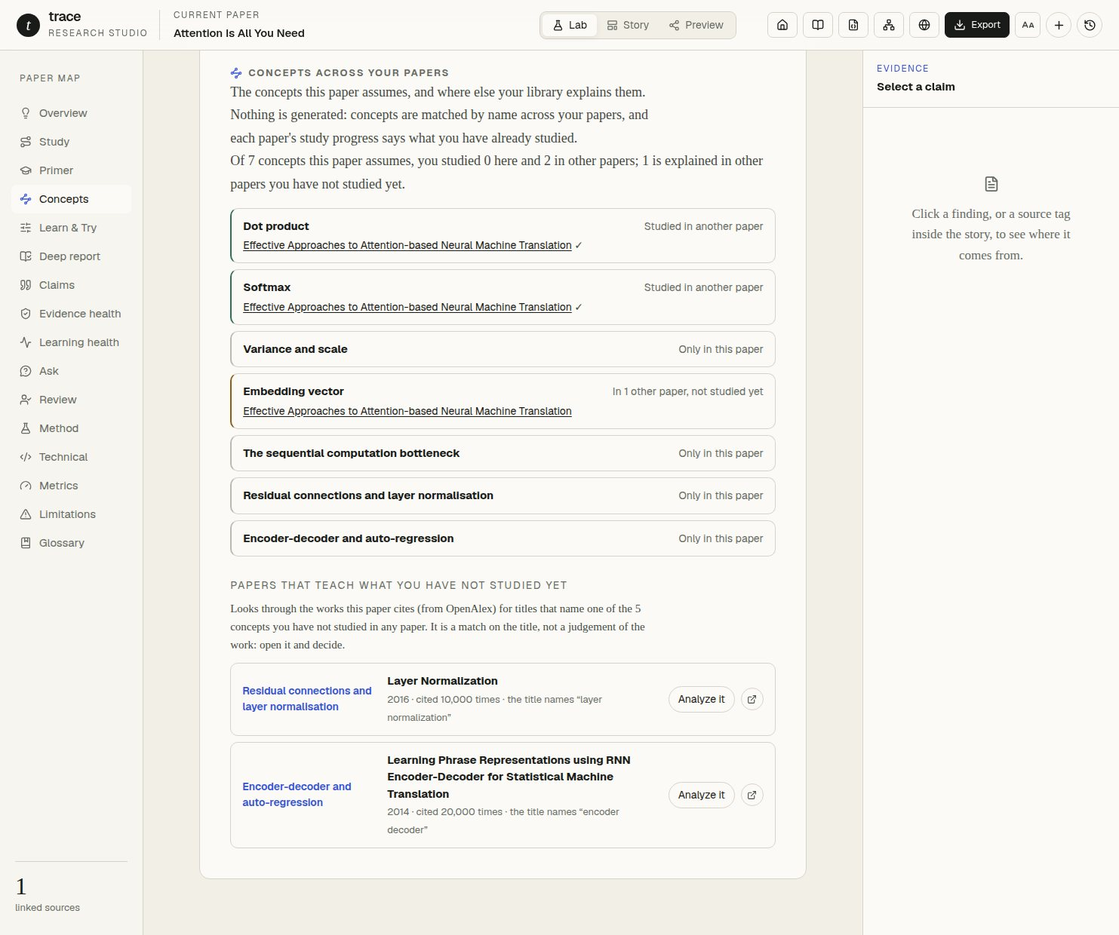
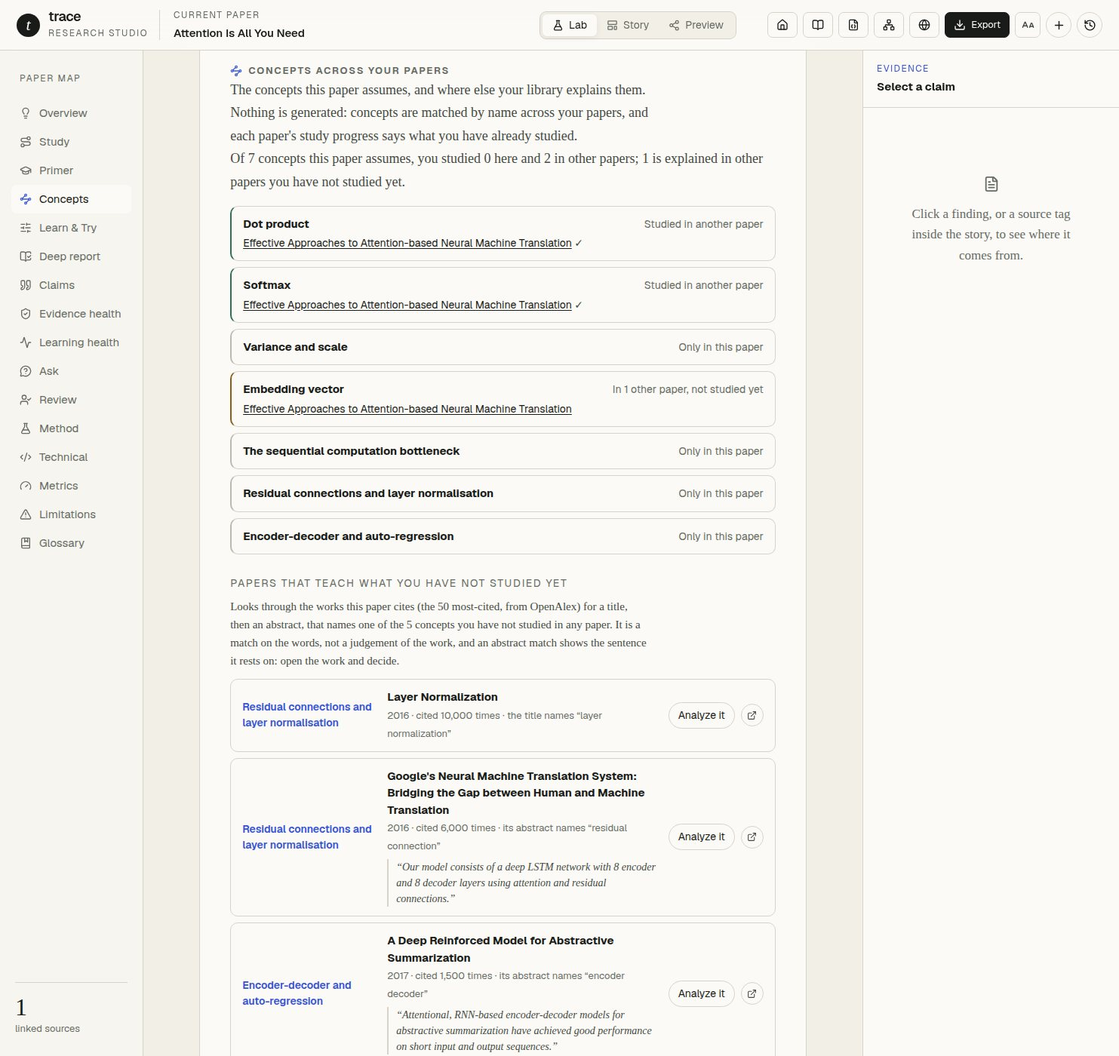
feat: suggest cited works whose abstract names a concept, with the sentence
Concept suggestions only looked at titles, and titles rarely name a concept:
none of the references OpenAlex lists for the attention paper does, while
their abstracts name three (residual connections, and encoder-decoder
models twice).

- The citation graph can bring the references' abstracts (OpenAlex's
  inverted index, rebuilt by the existing openAlexAbstract, which now
  ignores absurd or malformed positions). Only when asked: the graph panel
  does not need them. POST /api/citations takes `abstracts`.
- suggestReferences matches the title first, then the abstract, both on
  whole phrases as before; up to three works per concept, title matches
  first, most-cited first within each. An abstract match carries the
  sentence it rests on, verbatim: OpenAlex occasionally attaches an
  abstract to the wrong work, and the sentence lets the reader see it.
- The Lab says "its abstract names …" and quotes the sentence; the bridge's
  `concepts --suggest` and `--references` (which now accepts `abstract`)
  report `where` and `excerpt`. SKILL.md and README explain it; the
  screenshot shows both kinds.

Also fixes two races the full browser suite hit under load:
- The version-history reason was read when the save timer fired, so a
  pending save of the previous state could take a change's reason and the
  change was recorded as "Before edits". The reason is now bound to the
  project when the save is scheduled, and carried forward if that save is
  superseded before it runs.
[…]

diff --git a/src/lib/concept-links.test.ts b/src/lib/concept-links.test.ts
@@ -114,6 +114,37 @@ describe("concepts across the library", () => {
     expect(suggestReferences(conceptLinks(english, [english], new Map()), withSoftmax).some((item) => item.conceptId === "softmax")).toBe(true);
   });
 
+  it("falls back to abstracts, after titles, and shows the sentence each match rests on", () => {
+    const references = [
+      { title: "Layer Normalization", year: 2016, citationCount: 10_000 },
+      {
+        title: "Google's Neural Machine Translation System",
+        year: 2016,
+        citationCount: 5_000,
+        abstract: "Neural Machine Translation is an end-to-end approach. Our model consists of a deep LSTM network with 8 encoder and 8 decoder layers using attention and residual connections. It is fast.",
+      },
+      { title: "A Deep Reinforced Model for Abstractive Summarization", year: 2017, citationCount: 900, abstract: "Attentional, RNN-based encoder-decoder models for abstractive summarization have achieved good performance on short input and output sequences." },
+      // "layer" ve "normal" tek başına kavram değil: bütün ifade geçmeli.
+      { title: "Exploring the Limits", year: 2016, citationCount: 800, abstract: "Every layer is normal here. We explore limits." },
+      { title: "Cited but without an abstract", year: 2015, citationCount: 700 },
+    ];
+    const suggestions = suggestReferences(conceptLinks(english, [english], new Map()), references);
+    expect(suggestions.map((item) => [item.conceptId, item.where, item.reference.title])).toEqual([
+      ["residual-layernorm", "title", "Layer Normalization"],
+      ["residual-layernorm", "abstract", "Google's Neural Machine Translation System"],
+      ["encoder-decoder", "abstract", "A Deep Reinforced Model for Abstractive Summarization"],
+    ]);
+    // Cümle özetten olduğu gibi alınıyor; başlık eşleşmesinin cümlesi yok.
+    expect(suggestions[1]).toMatchObject({ phrase: "residual connection", excerpt: "Our model consists of a deep LSTM network with 8 encoder and 8 decoder layers using attention and residual connections." });
+    expect(suggestions[0].excerpt).toBeUndefined();
+    expect(suggestions[2].excerpt).toBe(references[2].abstract);
+
+    // Bir kavram için en çok üç çalışma, başlıkta ananlar önce.
+    const many = Array.from({ length: 5 }, (_, index) => ({ title: `Work ${index}`, citationCount: index, abstract: `We use softmax in part ${index}.` }));
+    const softmax = suggestReferences(conceptLinks(english, [english], new Map()), [{ title: "On the Softmax Bottleneck", citationCount: 1 }, ...many]).filter((item) => item.conceptId === "softmax");
+    expect(softmax.map((item) => item.reference.title)).toEqual(["On the Softmax Bottleneck", "Work 4", "Work 3"]);
+  });
+
   it("recognises a suggested work that is already in the library, by DOI or by title", () => {
     const base = secondPaper();
     const second = { ...base, evidence: { ...base.evidence, paper: { ...base.evidence.paper, title: "Layer Normalisation", doi: "https://doi.org/10.48550/arXiv.1607.06450" } } };
@@ -162,15 +193,22 @@ describe("the concepts bridge for agents", () => {
     const third = { ...english, id: "third-paper", evidence: { ...english.evidence, paper: { ...english.evidence.paper, title: "Embedding Vectors, Explained" } } };
     writeFileSync(join(workspace, "data", "library", "third-paper.trace.json"), JSON.stringify(third));
     const list = join(workspace, "references.json");
-    writeFileSync(list, JSON.stringify(["Layer Normalization", { title: "Embedding vectors, explained", year: "2019" }, { title: "Deep Residual Learning for Image Recognition", year: 2016 }]));
+    writeFileSync(list, JSON.stringify([
+      "Layer Normalization",
+      { title: "Embedding vectors, explained", year: "2019" },
+      { title: "Deep Residual Learning for Image Recognition", year: 2016 },
+      { title: "A Deep Reinforced Model for Abstractive Summarization", year: 2017, abstract: "Attentional, RNN-based encoder-decoder models for abstractive summarization have achieved good performance. We go further." },
+    ]));
     const run = bridge("concepts", "--project", join(workspace, "paper.trace.json"), "--references", list);
     expect(run.status).toBe(0);
-    const suggestions = run.json.suggestions as { ok: boolean; source: string; references: number; items: Array<{ conceptId: string; title: string; year: number | null; inLibrary: { projectId: string } | null }> };
-    expect(suggestions).toMatchObject({ ok: true, source: "file", references: 3 });
-    expect(suggestions.items.map((item) => [item.conceptId, item.title, item.inLibrary?.projectId ?? null])).toEqual([
-      ["embedding", "Embedding vectors, explained", "third-paper"],
-      ["residual-layernorm", "Layer Normalization", null],
+    const suggestions = run.json.suggestions as { ok: boolean; source: string; references: number; items: Array<{ conceptId: string; title: string; year: number | null; where: string; excerpt?: string; inLibrary: { projectId: string } | null }> };
+    expect(suggestions).toMatchObject({ ok: true, source: "file", references: 4 });
+    expect(suggestions.items.map((item) => [item.conceptId, item.where, item.title, item.inLibrary?.projectId ?? null])).toEqual([
+      ["embedding", "title", "Embedding vectors, explained", "third-paper"],
+      ["residual-layernorm", "title", "Layer Normalization", null],
+      ["encoder-decoder", "abstract", "A Deep Reinforced Model for Abstractive Summarization", null],
     ]);
+    expect(suggestions.items[2].excerpt).toBe("Attentional, RNN-based encoder-decoder models for abstractive summarization have achieved good performance.");
     expect(suggestions.items[0].year).toBe(2019);
 
     // Satır başına bir başlık da olur; softmax başka bir makalede çalışıldığı için önerilmiyor.

diff --git a/src/lib/concept-links.ts b/src/lib/concept-links.ts
@@ -185,8 +185,17 @@ export function sharedConcepts(library: readonly ResearchProject[], study: Reado
   return shared.sort((left, right) => right.papers - left.papers || left.term.localeCompare(right.term));
 }
 
-export type ReferenceWork = { title: string; year?: number; identifier?: string; pdfAvailable?: boolean; url?: string; citationCount?: number };
-export type ReferenceSuggestion = { conceptId: string; term: string; phrase: string; reference: ReferenceWork };
+export type ReferenceWork = { title: string; year?: number; identifier?: string; pdfAvailable?: boolean; url?: string; citationCount?: number; abstract?: string };
+export type ReferenceSuggestion = {
+  conceptId: string;
+  term: string;
+  phrase: string;
+  /** Kavramı anan yer: başlık, yoksa (OpenAlex'in verdiği) özet. */
+  where: "title" | "abstract";
+  /** Özetten anan cümle, olduğu gibi: okuyucu eşleşmenin neye dayandığını görüyor. */
+  excerpt?: string;
+  reference: ReferenceWork;
+};
 
 /**
  * Önerilen çalışma kütüphanede zaten var mı: DOI ya da katlanmış başlık aynı.
@@ -221,25 +230,57 @@ export function conceptPhrases(term: string) {
   ];
 }
 
+/** Özetin cümleleri; bir eşleşmenin kanıtı olarak gösterilen cümle en çok bu kadar uzun. */
+const MAX_EXCERPT = 280;
+
+/** Özetten ifadeyi bütün kelimelerle anan ilk cümle, olduğu gibi. */
+function sentenceNaming(abstract: string, phrase: string) {
+  const sentences = abstract.match(/[^.!?]+(?:[.!?]+(?=\s|$)|$)/g) ?? [abstract];
+  const sentence = sentences.map((item) => item.trim()).find((item) => ` ${normalizePhrase(item)} `.includes(` ${phrase} `));
+  if (!sentence) return undefined;
+  return sentence.length > MAX_EXCERPT ? `${sentence.slice(0, MAX_EXCERPT - 1).trimEnd()}…` : sentence;
+}
+
+/** Kavram başına en çok bu kadar öneri; başlıkta ananlar önce. */
+const SUGGESTIONS_PER_CONCEPT = 3;
+
 /**
  * Henüz çalışılmamış kavramlar için makalenin kaynaklarından öneri: başlığı
- * kavramın bir parçasını bütün kelimelerle anan çalışma. Kavram başına en çok
- * atıf alan iki çalışma.
+ * kavramın bir parçasını bütün kelimelerle anan çalışmalar önce, sonra
+ * özeti anan çalışmalar, her grupta en çok atıf alan önce. Özet eşleşmesi,
+ * özetteki cümleyle birlikte veriliyor; OpenAlex'in özetleri kimi zaman başka
+ * bir çalışmaya ait olabiliyor ve okuyucu bunu cümleden görebiliyor.
  */
 export function suggestReferences(links: readonly ConceptLink[], references: readonly ReferenceWork[]): ReferenceSuggestion[] {
-  const titles = references.map((reference) => ({ reference, title: ` ${normalizePhrase(reference.title)} ` }));
+  const works = references.map((reference) => ({
+    reference,
+    title: ` ${normalizePhrase(reference.title)} `,
+    abstract: reference.abstract ? ` ${normalizePhrase(reference.abstract)} ` : undefined,
+  }));
+  const byCitations = (left: ReferenceSuggestion, right: ReferenceSuggestion) => (right.reference.citationCount ?? 0) - (left.reference.citationCount ?? 0);
   const suggestions: ReferenceSuggestion[] = [];
   for (const link of links) {
     if (link.here?.studied || link.studiedIn) continue;
-    const matches: ReferenceSuggestion[] = [];
+    const inTitle: ReferenceSuggestion[] = [];
+    const inAbstract: ReferenceSuggestion[] = [];
+    const taken = new Set<ReferenceWork>();
     for (const phrase of conceptPhrases(link.term)) {
-      for (const { reference, title } of titles) {
-        if (title.includes(` ${phrase} `) && !matches.some((item) => item.reference.title === reference.title)) {
-          matches.push({ conceptId: link.conceptId, term: link.term, phrase, reference });
-        }
+      for (const { reference, title } of works) {
+        if (taken.has(reference) || !title.includes(` ${phrase} `)) continue;
+        taken.add(reference);
+        inTitle.push({ conceptId: link.conceptId, term: link.term, phrase, where: "title", reference });
       }
     }
-    suggestions.push(...matches.sort((left, right) => (right.reference.citationCount ?? 0) - (left.reference.citationCount ?? 0)).slice(0, 2));
+    for (const phrase of conceptPhrases(link.term)) {
+      for (const { reference, abstract } of works) {
+        if (taken.has(reference) || !abstract?.includes(` ${phrase} `)) continue;
+        const excerpt = sentenceNaming(reference.abstract!, phrase);
+        if (!excerpt) continue;
+        taken.add(reference);
+        inAbstract.push({ conceptId: link.conceptId, term: link.term, phrase, where: "abstract", excerpt, reference });
+      }
+    }
+    suggestions.push(...[...inTitle.sort(byCitations), ...inAbstract.sort(byCitations)].slice(0, SUGGESTIONS_PER_CONCEPT));
   }
   return suggestions;
 }

diff --git a/e2e/studio.spec.ts b/e2e/studio.spec.ts
@@ -1201,6 +1201,8 @@ test.describe("colour themes", () => {
         await page.goto(url);
         await expect(page.locator(".boot-screen")).toHaveCount(0);
         if (section) await page.locator(".lab-nav button", { hasText: section }).first().click();
+        // Kütüphane listesi sunucudan geliyor; yüklü bir makinede 400 ms yetmiyordu ve sayfanın yalnızca başlığı ölçülüyordu.
+        if (url.includes("library=1")) await expect(page.locator(".library-card").first()).toBeVisible();
         // Geçişler bitsin: renkler yarı yoldayken ölçülmesin.
         await page.waitForTimeout(400);
         const { checked, failures } = await unreadableTexts(page);
@@ -1773,7 +1775,7 @@ test.describe("concepts across the library", () => {
     const progress = completeStep(undefined, "concept:softmax", "concept:variance", new Date().toISOString());
     expect((await request.put(`/api/library/study?id=${second.id}`, { data: { progress } })).ok()).toBe(true);
     await page.route("**/api/citations", async (route) => {
-      const node = (title: string, year: number, citationCount: number) => ({ openAlexId: title, title, year, citationCount, authors: [], authorCount: 0, pdfAvailable: true, identifier: title });
+      const node = (title: string, year: number, citationCount: number, abstract?: string) => ({ openAlexId: title, title, year, citationCount, authors: [], authorCount: 0, pdfAvailable: true, identifier: title, ...(abstract ? { abstract } : {}) });
       await route.fulfill({
         status: 200,
         headers: { "Content-Type": "application/json" },
@@ -1783,6 +1785,7 @@ test.describe("concepts across the library", () => {
           references: [
             node("Layer Normalization", 2016, 10_000), node("Deep Residual Learning for Image Recognition", 2016, 200_000),
             node("Adam: A Method for Stochastic Optimization", 2015, 100_000), node("Zeta Dot Products: A Second Paper", 2018, 12),
+            node("A Deep Reinforced Model for Abstractive Summarization", 2017, 900, "Attentional, RNN-based encoder-decoder models for abstractive summarization have achieved good performance. We go further."),
           ],
         }),
       });
@@ -1803,6 +1806,11 @@ test.describe("concepts across the library", () => {
     await expect(suggestion).toContainText("the title names “layer normalization”");
     await expect(suggestion.getByRole("button", { name: "Analyze it" })).toBeVisible();
     await expect(page.locator(".concept-suggestions li", { hasText: "Deep Residual Learning" })).toHaveCount(0);
+    // Başlıkta değil özette anılan kavram: eşleşme ayrı etiketle ve özetteki cümlesiyle.
+    const fromAbstract = page.locator(".concept-suggestions li", { hasText: "A Deep Reinforced Model" });
+    await expect(fromAbstract.locator(".concept-for")).toHaveText("Encoder-decoder and auto-regression");
+    await expect(fromAbstract).toContainText("its abstract names “encoder decoder”");
+    await expect(fromAbstract.locator(".concept-excerpt")).toHaveText("Attentional, RNN-based encoder-decoder models for abstractive summarization have achieved good performance.");
     // Kütüphanede zaten olan bir çalışma analiz edilmiyor, açılıyor.
     const owned = page.locator(".concept-suggestions li", { hasText: "Zeta Dot Products: A Second Paper" });
     await expect(owned.locator(".concept-for")).toHaveText("Zeta dot product");

diff --git a/src/components/concepts-view.tsx b/src/components/concepts-view.tsx
@@ -44,7 +44,7 @@ export function ConceptsView({
     setLookup({ status: "loading" });
     try {
       const { paper } = project.evidence;
-      const graph = await loadCitationGraph({ doi: paper.doi, title: paper.title, authors: paper.authors, limit: 50 });
+      const graph = await loadCitationGraph({ doi: paper.doi, title: paper.title, authors: paper.authors, limit: 50, abstracts: true });
       if (!graph.ok) throw new Error(graph.skipped ? `OpenAlex has no certain record of this paper (${graph.skipped}).` : graph.error ?? "The references could not be loaded.");
       setLookup({ status: "done", suggestions: suggestReferences(links, graph.references), references: graph.references.length });
     } catch (error) {
@@ -90,8 +90,9 @@ export function ConceptsView({
       <section className="concept-suggest" aria-label="Papers that teach what you have not studied yet">
         <h4>Papers that teach what you have not studied yet</h4>
         <p>
-          Looks through the works this paper cites (from OpenAlex) for titles that name one of the {plural(unknown.length, "concept")}{" "}
-          you have not studied in any paper. It is a match on the title, not a judgement of the work: open it and decide.
+          Looks through the works this paper cites (the 50 most-cited, from OpenAlex) for a title, then an abstract, that names one
+          of the {plural(unknown.length, "concept")} you have not studied in any paper. It is a match on the words, not a judgement
+          of the work, and an abstract match shows the sentence it rests on: open the work and decide.
         </p>
         {lookup.status === "idle" || lookup.status === "failed" ? (
           <button type="button" className="concept-look" onClick={() => { void look(); }} disabled={!unknown.length}>
@@ -113,9 +114,10 @@ export function ConceptsView({
                       <small>
                         {item.reference.year ?? "—"}
                         {item.reference.citationCount !== undefined ? ` · cited ${item.reference.citationCount.toLocaleString("en")} times` : ""}
-                        {` · the title names “${item.phrase}”`}
+                        {item.where === "title" ? ` · the title names “${item.phrase}”` : ` · its abstract names “${item.phrase}”`}
                         {owned ? " · already in your library" : ""}
                       </small>
+                      {item.excerpt ? <q className="concept-excerpt" cite={item.reference.url}>{item.excerpt}</q> : null}
                     </span>
                     <span className="concept-actions">
                       {owned ? (
@@ -132,7 +134,7 @@ export function ConceptsView({
               })}
             </ul>
           ) : (
-            <p>None of the {plural(lookup.references, "reference")} OpenAlex lists names these concepts in its title.</p>
+            <p>None of the {plural(lookup.references, "reference")} OpenAlex lists names these concepts in its title or abstract.</p>
           )
         ) : null}
       </section>

diff --git a/src/lib/paper-source.test.ts b/src/lib/paper-source.test.ts
@@ -118,6 +118,8 @@ describe("OpenAlex helpers", () => {
       "Large models work hard work",
     );
     expect(openAlexAbstract({})).toBeUndefined();
+    // Dışarıdan gelen konumlar: aşırı büyük ya da bozuk olanlar yok sayılıyor.
+    expect(openAlexAbstract({ abstract_inverted_index: { Short: [0], abstract: [1], far: [1e9], bad: [-1, 1.5], odd: "x" } })).toBe("Short abstract");
   });
 
   it("arXiv kopyasının kimliğini bulur", () => {
@@ -304,6 +306,25 @@ describe("citation graph", () => {
     expect(graph.references?.map((node: { title: string }) => node.title)).toEqual(["Major", "Minor"]);
     expect(graph.citedBy).toHaveLength(1);
     expect(graph.referenceCount).toBe(2);
+  });
+
+  it("istenirse kaynakların özetlerini de getirir, yalnızca kaynaklar için", async () => {
+    const calls = mockFetch([
+      { match: "https://api.openalex.org/works/doi:", body: { id: "https://openalex.org/W1", title: "Paper", cited_by_count: 40, referenced_works: ["https://openalex.org/W2"] } },
+      { match: "https://api.openalex.org/works?filter=openalex", body: { results: [{ id: "https://openalex.org/W2", title: "Cited", cited_by_count: 3, abstract_inverted_index: { We: [0], normalize: [1], layers: [2] } }] } },
+      { match: "https://api.openalex.org/works?filter=cites", body: { results: [{ id: "https://openalex.org/W4", title: "Follow-up", cited_by_count: 12, abstract_inverted_index: { Not: [0], asked: [1] } }] } },
+    ]);
+    const graph = await fetchCitationGraph({ doi: "10.1000/example" }, { limit: 50, abstracts: true });
+    expect(graph.references?.[0]).toMatchObject({ title: "Cited", abstract: "We normalize layers" });
+    expect(graph.citedBy?.[0].abstract).toBeUndefined();
+    expect(calls.find((url) => url.includes("filter=openalex"))).toContain("abstract_inverted_index");
+
+    mockFetch([
+      { match: "https://api.openalex.org/works/doi:", body: { id: "https://openalex.org/W1", title: "Paper", cited_by_count: 40, referenced_works: ["https://openalex.org/W2"] } },
+      { match: "https://api.openalex.org/works?filter=openalex", body: { results: [{ id: "https://openalex.org/W2", title: "Cited", cited_by_count: 3, abstract_inverted_index: { We: [0] } }] } },
+      { match: "https://api.openalex.org/works?filter=cites", body: { results: [] } },
+    ]);
+    expect((await fetchCitationGraph({ doi: "10.1000/example" })).references?.[0]).not.toHaveProperty("abstract");
   });
 
   it("ağ hatasında akışı düşürmez", async () => {

diff --git a/src/components/app-shell.tsx b/src/components/app-shell.tsx
@@ -216,18 +216,31 @@ export function AppShell() {
     return () => window.clearTimeout(timer);
   }, []);
 
+  /**
+   * Kaydın sebebi (sürüm geçmişindeki etiket) kayıt zamanlandığında bu
+   * projeye bağlanıyor, zamanlayıcı çalıştığında değil. Önceden zamanlayıcı
+   * okuyordu: bir değişikliğin sebebi yazıldıktan sonra, React yeni projeyi
+   * işlemeden önce önceki projenin bekleyen kaydı çalışırsa sebebi o alıyor,
+   * asıl değişiklik "Before edits" diye kaydediliyordu. Kaydedilmeden yerini
+   * yeni bir değişikliğe bırakan kaydın sebebi de ona taşınıyor.
+   */
   useEffect(() => {
     if (!project || !hydrated || screen !== "workspace") return;
+    const reason = saveReason.current;
+    saveReason.current = "edit";
+    let saved = false;
     const timer = window.setTimeout(() => {
+      saved = true;
       const updated = { ...project, updatedAt: new Date().toISOString() };
-      const reason = saveReason.current;
-      saveReason.current = "edit";
       void saveLibraryProject(updated, { reason }).then(() => {
         setProjects((current) => [updated, ...current.filter((item) => item.id !== updated.id)]);
       });
       window.localStorage.setItem(STORAGE_KEY, JSON.stringify(updated));
     }, 500);
-    return () => window.clearTimeout(timer);
+    return () => {
+      window.clearTimeout(timer);
+      if (!saved && saveReason.current === "edit") saveReason.current = reason;
+    };
   }, [project, hydrated, screen]);
 
   /**

diff --git a/src/app/api/citations/route.ts b/src/app/api/citations/route.ts
@@ -16,12 +16,14 @@ const inputSchema = z.object({
   authors: z.array(z.string().max(200)).max(50).optional(),
   /** Her yönde kaç çalışma; kavram önerileri daha geniş bir kaynak listesine bakıyor. */
   limit: z.number().int().min(4).max(50).optional(),
+  /** Kaynakların özetleri de gelsin: kavram önerileri özette geçen kavramları da arıyor. */
+  abstracts: z.boolean().optional(),
 });
 
 export async function POST(request: Request) {
   const parsed = inputSchema.safeParse(await request.json().catch(() => undefined));
   if (!parsed.success) return Response.json({ error: "A paper title is required." }, { status: 400 });
-  const { limit, ...paper } = parsed.data;
-  const graph = await fetchCitationGraph(paper, { limit: limit ?? 12 });
+  const { limit, abstracts, ...paper } = parsed.data;
+  const graph = await fetchCitationGraph(paper, { limit: limit ?? 12, abstracts: abstracts ?? false });
   return Response.json(graph, { headers: { "Cache-Control": "no-store" } });
 }

diff --git a/src/lib/paper-lookup.ts b/src/lib/paper-lookup.ts
@@ -31,6 +31,8 @@ export type GraphNode = {
   url?: string;
   pdfAvailable: boolean;
   identifier: string;
+  /** Yalnızca `abstracts` istendiğinde ve OpenAlex özeti verdiğinde; kanıt değil, bağlam. */
+  abstract?: string;
 };
 
 export type CitationGraph =
@@ -84,7 +86,7 @@ export async function downloadCandidate(candidate: PaperCandidate): Promise<File
   return new File([await response.blob()], `${name}.pdf`, { type: "application/pdf" });
 }
 
-export async function loadCitationGraph(paper: { doi?: string; title: string; authors: string[]; limit?: number }): Promise<CitationGraph> {
+export async function loadCitationGraph(paper: { doi?: string; title: string; authors: string[]; limit?: number; abstracts?: boolean }): Promise<CitationGraph> {
   const response = await fetch("/api/citations", {
     method: "POST",
     headers: { "Content-Type": "application/json" },

diff --git a/src/app/globals.css b/src/app/globals.css
@@ -1001,6 +1001,7 @@ html[data-text-size="larger"] { font-size: 125%; }
 .concept-for { color: var(--accent-ink); font-size: var(--text-sm); font-weight: 600; }
 .concept-work strong { display: block; font-size: var(--text-md); }
 .concept-work small { color: var(--muted); font-size: var(--text-xs); }
+.concept-excerpt { display: block; margin-top: 6px; padding-left: 10px; border-left: 2px solid var(--line); color: var(--ink-soft); font: italic var(--text-sm)/1.5 Georgia, serif; quotes: "“" "”"; }
 .concept-actions { display: flex; align-items: center; gap: 8px; }
 .concept-actions button { padding: 6px 12px; border: 1px solid var(--line); border-radius: 20px; background: transparent; color: var(--ink); cursor: pointer; font-size: var(--text-sm); white-space: nowrap; }
 .concept-actions button:hover { border-color: var(--accent); }

diff --git a/README.md b/README.md
@@ -41,7 +41,7 @@ running on the coding agent you already use, with no second API key.
 
 | | |
 | --- | --- |
-| **[Connect what you learn across papers](#connect-what-you-learn-across-papers)** | A concept you studied in one paper is marked in the next one that assumes it, with a link back. **Concepts** in the library maps what your papers share, and the Lab looks through a paper's references for works that teach what you have not studied yet. |
+| **[Connect what you learn across papers](#connect-what-you-learn-across-papers)** | A concept you studied in one paper is marked in the next one that assumes it, with a link back. **Concepts** in the library maps what your papers share, and the Lab looks through a paper's references, titles and abstracts, for works that teach what you have not studied yet. |
 | **[Explain it back](#explain-it-back-in-your-own-words)** | Write a section in your own words; a model that sees only the evidence shows what you conveyed, left out or said differently, each with its claim and page. |
 | **[Predict first, then look](#predict-first-then-look)** | A playground asks what each curve will do before it shows the chart, and a derivation asks which step comes next. The answers come from the formulas themselves, not from a model. |
 | **[Common misreadings](#see-through-the-common-misreadings)** | The conclusions a hurried reader draws that the paper does not support, each labelled with its kind of mistake and corrected from its claims. The correction opens only when you ask why. |
@@ -270,15 +270,20 @@ studied yet. The primer and the study path say the same thing where the concept 
 studied this in …, skim it here or move on*.
 
 For the concepts you have not studied anywhere, **Look in the references** goes through the works the
-paper cites (the 50 most-cited, from OpenAlex) for titles that name them, and offers each with
-**Analyze it**; a work already in your library opens instead of being analysed twice. **Concepts** in
+paper cites (the 50 most-cited, from OpenAlex) for a title that names them, then for an abstract that
+does, and offers each with **Analyze it**; a work already in your library opens instead of being
+analysed twice. A title is rarely enough: none of the references OpenAlex lists for the attention paper
+names one of its concepts in the title, while their abstracts name three (residual connections, and
+encoder-decoder models twice). An abstract match is shown with the sentence it rests on, quoted as
+OpenAlex has it, because OpenAlex occasionally attaches an abstract to the wrong work and the sentence
+lets you see that. **Concepts** in
 the library header is the map across all of it: every concept more than one paper explains, with the
 papers that explain it and a check mark where you studied it.
 
 Nothing here is generated. Concepts are matched by name, from each paper's primer and glossary, with
 case, hyphens, British and American spellings and plurals folded, never by meaning: two names for one
 idea stay apart rather than risk joining two different ideas under one name. A suggested reference is
-a match on its title, not a judgement of the work. Your study progress stays in your library, never
+a match on its words, not a judgement of the work. Your study progress stays in your library, never
 in a project file. Your agent reads the same links from your library:
 
 ```text

diff --git a/plugins/trace-paper-studio/skills/trace-paper-studio/SKILL.md b/plugins/trace-paper-studio/skills/trace-paper-studio/SKILL.md
@@ -200,10 +200,10 @@ When the user asks what they already know from other papers, which concepts of a
 node scripts/trace-agent.mjs concepts --project "<project.trace.json>" --suggest
 ```
 
-For each primer concept of the project it lists `studiedHere`, `studiedIn` (another paper of the library where the user studied it, from the studio's study progress) and `alsoIn` (other papers that explain it). `--suggest` adds `suggestions`: works among the paper's references (the 50 most-cited, from OpenAlex) whose titles name a concept the user has not studied anywhere. Without network, pass `--references <file>` instead: a JSON array of titles or `{ "title", "year" }` objects, or one title per line, read from the paper's bibliography. Without `--project` it prints the library's concept map, the concepts more than one paper explains.
+For each primer concept of the project it lists `studiedHere`, `studiedIn` (another paper of the library where the user studied it, from the studio's study progress) and `alsoIn` (other papers that explain it). `--suggest` adds `suggestions`: works among the paper's references (the 50 most-cited, from OpenAlex) whose title (`where: "title"`) or, failing that, abstract (`where: "abstract"`, with the sentence as `excerpt`) names a concept the user has not studied anywhere. Without network, pass `--references <file>` instead: a JSON array of titles or `{ "title", "year", "abstract" }` objects, or one title per line, read from the paper's bibliography. Without `--project` it prints the library's concept map, the concepts more than one paper explains.
 
 - Say where each concept was studied, with the paper's title, and suggest skimming those parts. Concepts are matched by name, never by meaning: do not claim that two differently named concepts are the same, and do not add links it did not report.
-- Present a suggestion as a work whose title names the concept, not as a recommendation of its quality. A suggestion with `inLibrary` is already analysed: point to that project instead of analysing it again. Otherwise offer `prepare --source <identifier>` for it.
+- Present a suggestion as a work whose title or abstract names the concept, not as a recommendation of its quality. For an abstract match, quote its `excerpt`: OpenAlex occasionally attaches an abstract to the wrong work, and the sentence shows it. A suggestion with `inLibrary` is already analysed: point to that project instead of analysing it again. Otherwise offer `prepare --source <identifier>` for it.
 - This is about the user, not the paper: never write it into the project.
 
 ## Model record
